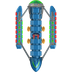
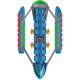
Precursor Flagship a bit bigger: facing north its nacelles touch the hex edges
Claude-Session: https://claude.ai/code/session_01PJyw2JrKbATJBzLyBMqgLP

diff --git a/tools/make_art.py b/tools/make_art.py
@@ -256,8 +256,23 @@ LEVELS = {1: (0.82, None), 2: (0.91, (2.5, 1.0)), 3: (1.0, (3.5, 1.6))}
 # Level 3 is up to this much bigger than the ship's base size, if it fits.
 LEVEL_GROWTH = 1.12
 # Ships whose level-1 sprite fills the whole hex instead (the Precursor
-# Flagship leads with it, so it should look huge).
+# Flagship leads with it, so it should look huge): facing north, its sides
+# touch the hex's slanted edges and its nose and tail poke out top and bottom.
 FILL_HEX = {"precursor-flagship"}
+
+
+def hex_filling_scale(img):
+    """Largest scale at which `img`, upright, stays inside the hex's slanted edges."""
+    scale = HEX / 2 / max(img.size)
+    for step in (0.1, 0.01, 0.001):
+        while True:
+            s = scale + step
+            w, h = round(img.width * s), round(img.height * s)
+            ys, xs = np.nonzero(np.array(img.resize((w, h), Image.LANCZOS))[..., 3] > 40)
+            if (np.abs(xs + 0.5 - w / 2) + np.abs(ys + 0.5 - h / 2) / 2 > HEX / 2).any():
+                break
+            scale = s
+    return scale
 
 
 def glow_colour(img):
@@ -292,12 +307,12 @@ def build_ships(uqm, out):
         for level, (size, glow) in LEVELS.items():
             scale = top * size
             if uid in FILL_HEX and level == 1:
-                scale = min(HEX / max(trim(rotated(hd, a)).size) for a in FACINGS.values())
+                scale = hex_filling_scale(trim(hd))
             for facing, angle in FACINGS.items():
                 r = trim(rotated(hd, angle))
                 w = max(1, round(r.width * scale))
                 h = max(1, round(r.height * scale))
-                img = centred(r.resize((w, h), Image.LANCZOS))
+                img = centred(r.resize((w, h), Image.LANCZOS), max(HEX, w + w % 2, h + h % 2))
                 if glow:
                     img = with_glow(img, colour, *glow)
                 save(img, out, f"images/units/sc/{uid}-l{level}-{facing}.png", True)
